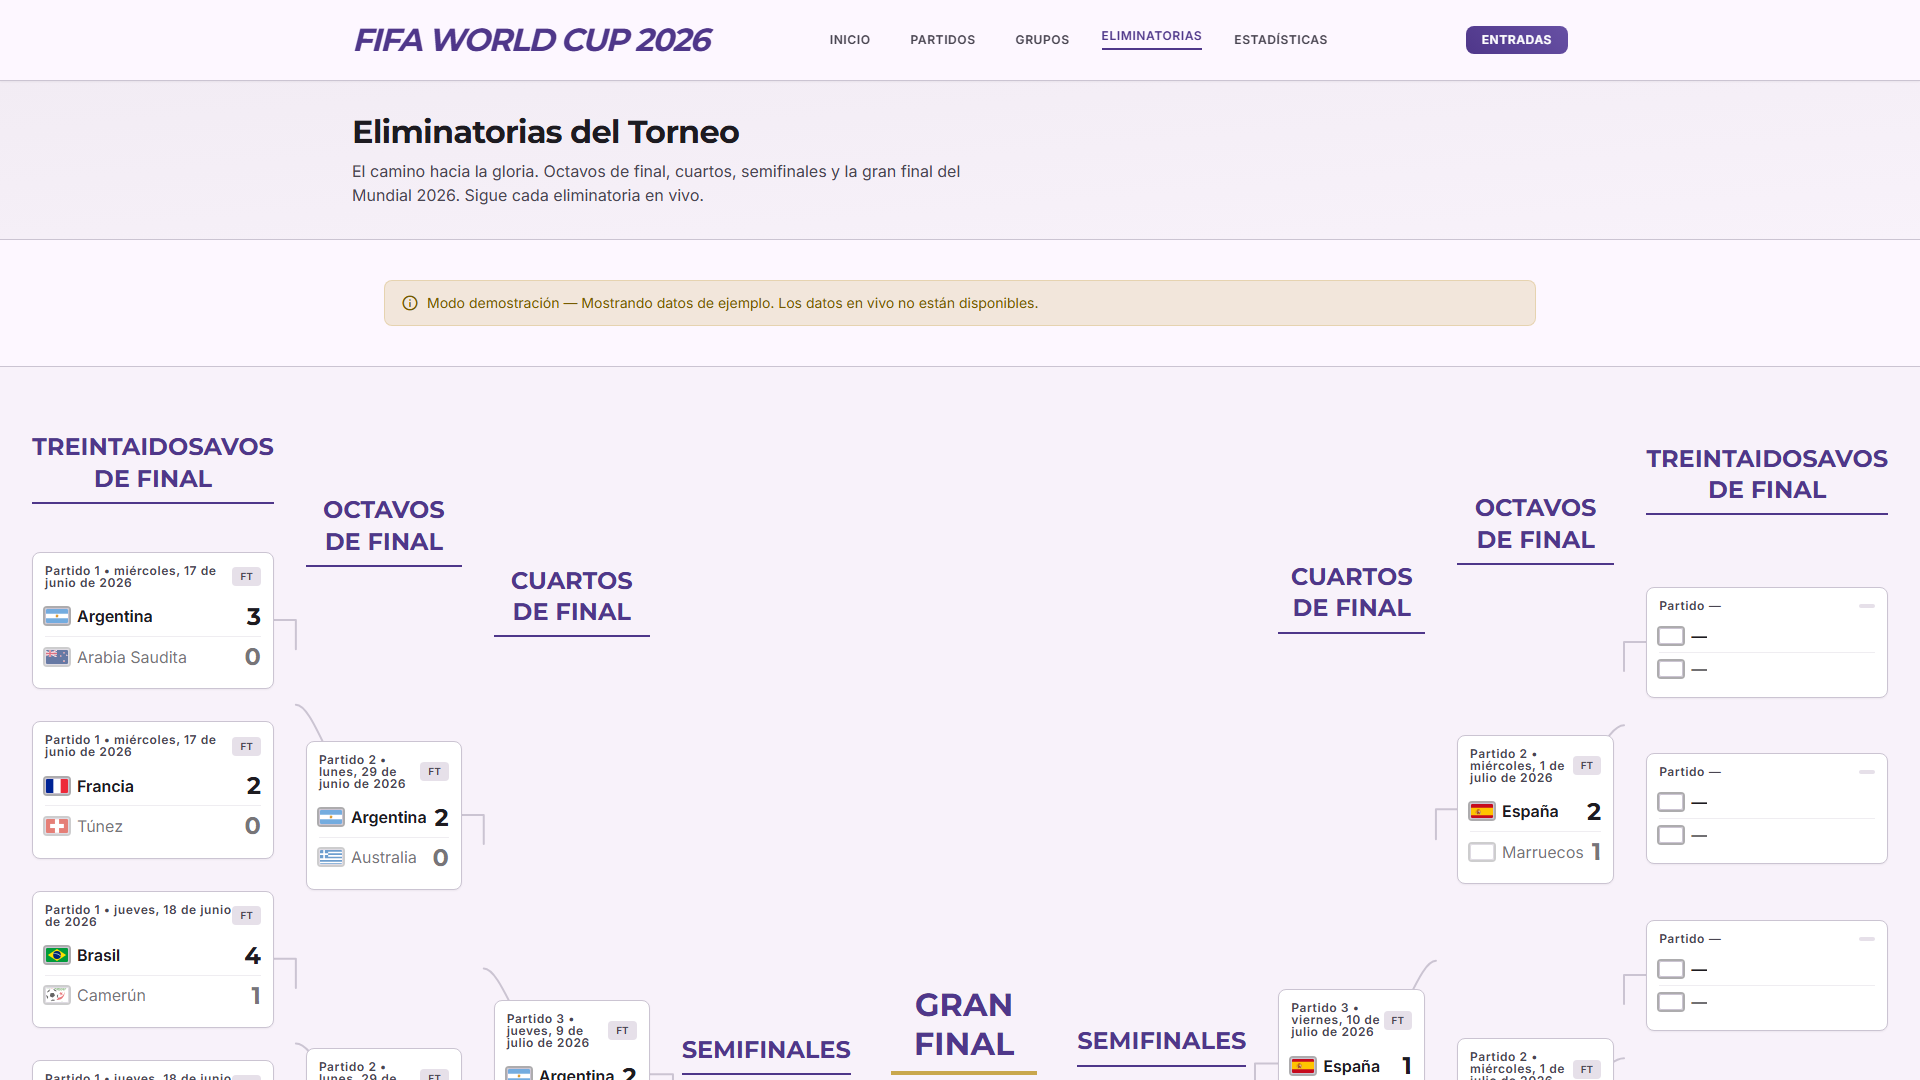
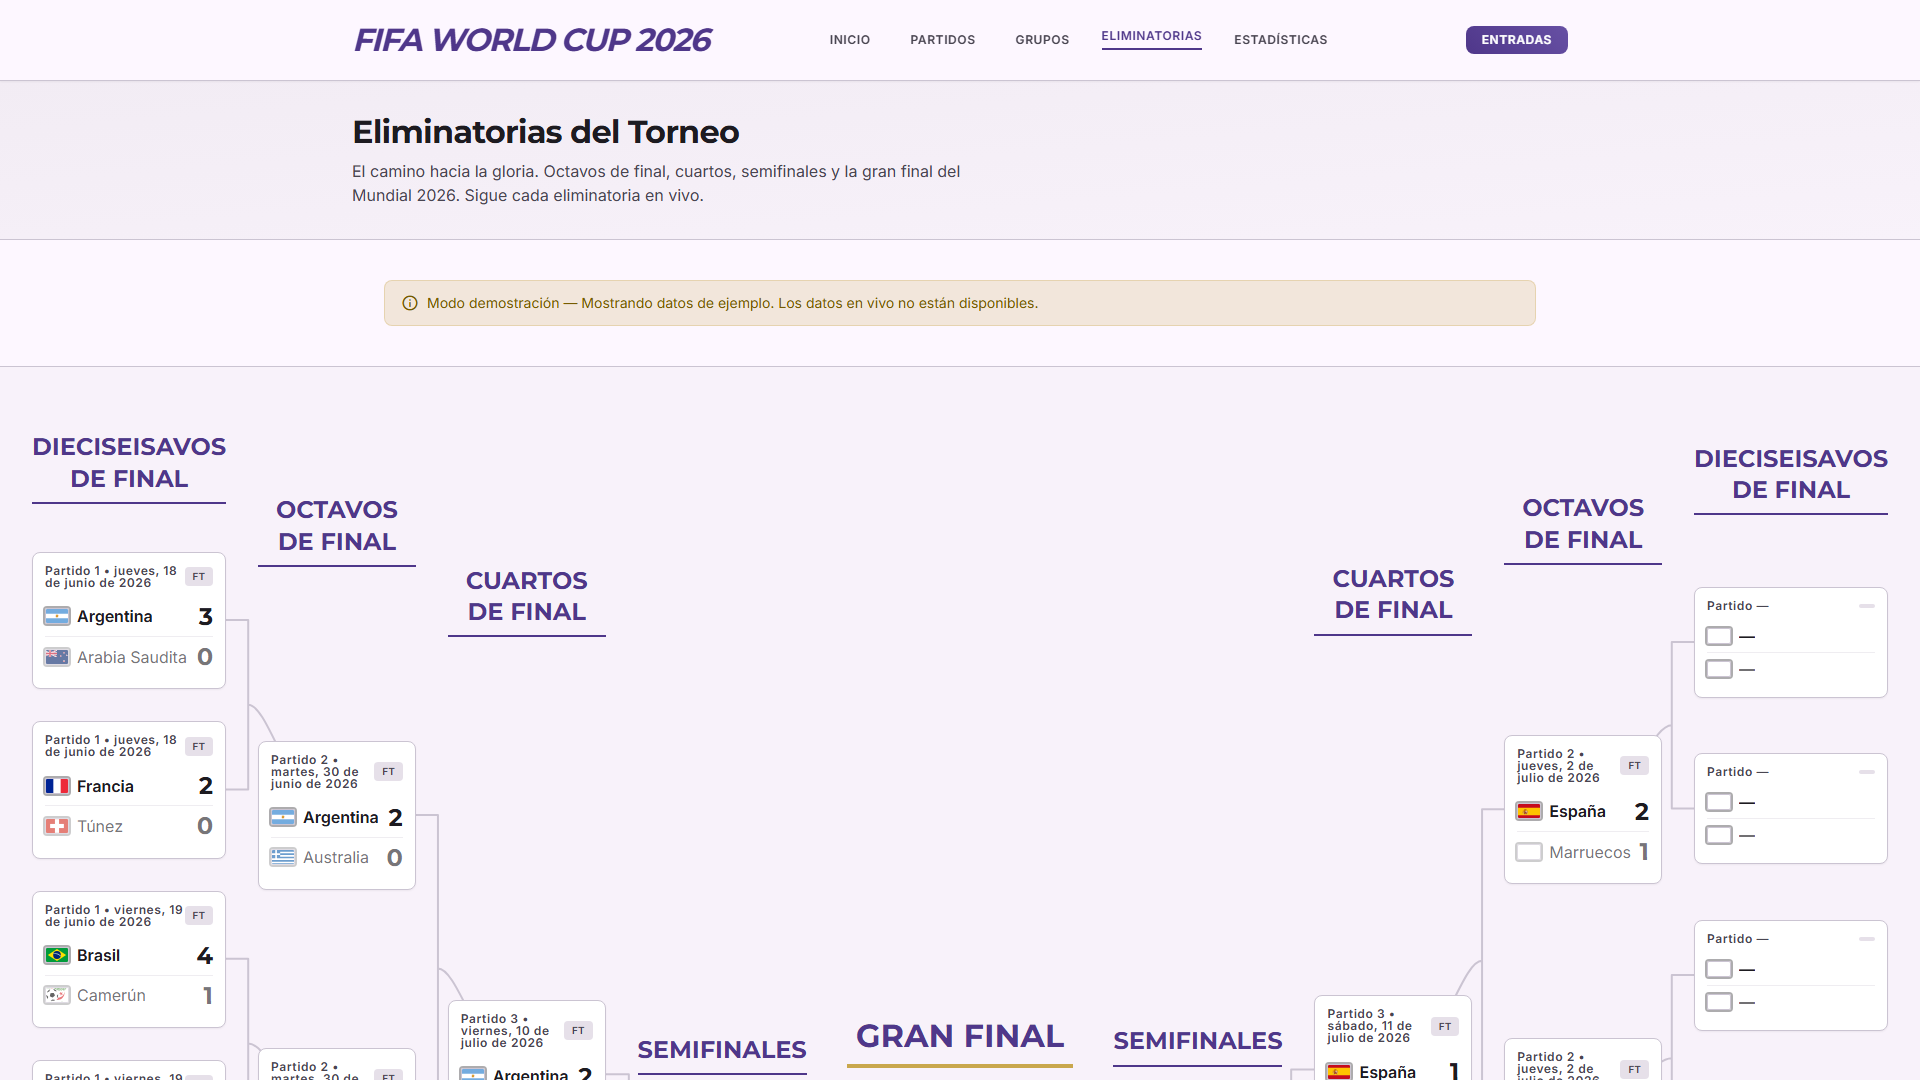
FIx: Tree Elimination

diff --git a/knockout/knockout.js b/knockout/knockout.js
@@ -12,6 +12,65 @@ const connectorLogger = createLogger('Connectors');
 const DEBUG_CONNECTORS = false;
 
 /**
+ * Referencia al ResizeObserver que vigila #bracket-inner.
+ * Se crea una única vez y se reutiliza para evitar observers duplicados.
+ */
+let bracketResizeObserver = null;
+
+/**
+ * Handle del requestAnimationFrame pendiente para el redibujado de conectores.
+ * Se usa para "debounce" múltiples disparos seguidos (resize, observer, fonts...)
+ * en un único redibujado por frame, evitando trabajo redundante.
+ */
+let connectorsRenderHandle = null;
+
+/**
+ * Programar un redibujado de conectores en el siguiente frame.
+ * Cualquier trigger (resize de ventana, cambio de zoom, cambio de tamaño
+ * del contenedor, fuentes cargadas, etc.) debe pasar por aquí en lugar de
+ * llamar a renderConnectors() directamente, para evitar renders duplicados.
+ */
+function scheduleRenderConnectors() {
+  if (connectorsRenderHandle !== null) {
+    cancelAnimationFrame(connectorsRenderHandle);
+  }
+  connectorsRenderHandle = requestAnimationFrame(() => {
+    connectorsRenderHandle = null;
+    renderConnectors();
+  });
+}
+
+/**
+ * Configurar el ResizeObserver que mantiene los conectores alineados.
+ *
+ * Por qué es necesario: el evento 'resize' de window SOLO se dispara cuando
+ * cambia el viewport del navegador. No se dispara cuando:
+ *  - Se cambia `document.body.style.zoom` (zoom CSS, usado en tests y por
+ *    algunos navegadores/paneles de accesibilidad) — sin embargo SÍ cambia
+ *    el tamaño real (getBoundingClientRect) de #bracket-inner.
+ *  - Cambia el layout por otras causas: fuentes que terminan de cargar,
+ *    nombres de equipo largos que reflowan una tarjeta, o un breakpoint de
+ *    Tailwind (lg:/xl:/2xl:) que se activa por el propio zoom.
+ *
+ * ResizeObserver detecta directamente cambios en la caja del contenedor
+ * del bracket sin importar la causa, por lo que es la fuente de verdad
+ * correcta para saber cuándo redibujar los conectores.
+ */
+function setupBracketResizeObserver() {
+  const bracket = document.getElementById('bracket-inner');
+  if (!bracket || typeof ResizeObserver === 'undefined') return;
+
+  if (bracketResizeObserver) {
+    bracketResizeObserver.disconnect();
+  }
+
+  bracketResizeObserver = new ResizeObserver(() => {
+    scheduleRenderConnectors();
+  });
+  bracketResizeObserver.observe(bracket);
+}
+
+/**
  * Llenar una tarjeta de partido en el bracket
  * @param {HTMLElement} card - Elemento .match-card
  * @param {object} match - Objeto partido (formato football-data.org)
@@ -216,9 +275,11 @@ async function renderKnockout() {
       }
     }
 
-    // Renderizar conectores después de que el DOM se haya actualizado
-    // y las tarjetas tengan sus dimensiones finales
-    scheduleConnectorRender();
+    // Renderizar conectores tras el primer pintado y activar el observer
+    // que los mantendrá alineados ante cualquier cambio de tamaño futuro
+    // (resize, zoom, reflow por contenido/fuentes, cambios de breakpoint).
+    setupBracketResizeObserver();
+    setTimeout(() => scheduleRenderConnectors(), 200);
 
     logger.log('Bracket renderizado exitosamente');
 
@@ -243,33 +304,12 @@ async function renderKnockout() {
       errorEl.classList.add('hidden');
 
       if (demoBadge) demoBadge.classList.remove('hidden');
-      scheduleConnectorRender();
+      setupBracketResizeObserver();
+      setTimeout(() => scheduleRenderConnectors(), 200);
       logger.log('Recuperación con datos demo exitosa');
     } catch (recoveryError) {
       logger.error('Recuperación fallida', { error: recoveryError.message });
     }
-  }
-}
-
-/**
- * Programar renderizado de conectores con requestAnimationFrame
- * Usa rAF con fallback a setTimeout para compatibilidad
- */
-function scheduleConnectorRender() {
-  if (window.requestAnimationFrame) {
-    requestAnimationFrame(() => {
-      // Doble rAF para asegurar que el DOM está estable
-      requestAnimationFrame(() => {
-        renderConnectors();
-        if (DEBUG_CONNECTORS) connectorLogger.log('Conectores renderizados vía requestAnimationFrame');
-      });
-    });
-  } else {
-    // Fallback para navegadores antiguos
-    setTimeout(() => {
-      renderConnectors();
-      if (DEBUG_CONNECTORS) connectorLogger.log('Conectores renderizados vía setTimeout (fallback)');
-    }, 50);
   }
 }
 
@@ -296,7 +336,10 @@ function getCardEdge(matchId, side, bracketEl) {
     default: x = r.left + r.width / 2 - bracketRect.left; break;
   }
   const y = r.top + r.height / 2 - bracketRect.top;
-  return { x, y };
+  // Redondear a 2 decimales: evita ruido de subpíxel que puede aparecer
+  // entre distintos niveles de zoom/devicePixelRatio y mantiene los paths
+  // SVG estables y fáciles de depurar.
+  return { x: Math.round(x * 100) / 100, y: Math.round(y * 100) / 100 };
 }
 
 /**
@@ -336,11 +379,6 @@ function renderConnectors() {
   // Limpiar paths existentes
   svg.innerHTML = '';
 
-  // Oculto en móvil (solo desktop)
-  if (window.innerWidth < 1024) {
-    svg.style.display = 'none';
-    return;
-  }
   svg.style.display = 'block';
 
   const bracketRect = bracket.getBoundingClientRect();
@@ -600,43 +638,21 @@ document.addEventListener('DOMContentLoaded', () => {
     setupBranchHighlight();
   });
 
-  // === ResizeObserver para cambios de tamaño en el contenedor ===
-  const bracketInner = document.getElementById('bracket-inner');
-  if (bracketInner && window.ResizeObserver) {
-    const resizeObserver = new ResizeObserver((entries) => {
-      for (const entry of entries) {
-        // Solo re-renderizar si el tamaño cambió significativamente
-        const { width, height } = entry.contentRect;
-        if (width > 0 && height > 0) {
-          scheduleConnectorRender();
-        }
-      }
-    });
-    resizeObserver.observe(bracketInner);
+  // Recalcular conectores al cambiar tamaño de ventana.
+  // Nota: esto es un fallback adicional; el ResizeObserver de
+  // #bracket-inner (ver setupBracketResizeObserver) es la fuente principal
+  // porque también cubre casos que 'resize' no dispara, como
+  // document.body.style.zoom.
+  window.addEventListener('resize', () => {
+    scheduleRenderConnectors();
+  });
 
-    // También observar las columnas para detectar cambios de altura
-    document.querySelectorAll('#bracket-inner > .flex.flex-col').forEach(col => {
-      resizeObserver.observe(col);
-    });
-
-    logger.log('ResizeObserver configurado para bracket-inner y columnas');
-  } else if (bracketInner) {
-    logger.warn('ResizeObserver no disponible, usando solo event resize');
-  }
-
-  // Observer para re-renderizar conectores cuando cambie el DOM
-  // (por ej: cuando se actualizan scores o estados)
-  const container = document.getElementById('knockout-container');
-  if (container) {
-    let observerTimeout;
-    const observer = new MutationObserver(() => {
-      clearTimeout(observerTimeout);
-      observerTimeout = setTimeout(() => {
-        scheduleConnectorRender();
-      }, 100); // Debounce de 100ms
-    });
-    observer.observe(container, { childList: true, subtree: true, attributes: false });
-    logger.log('MutationObserver configurado con debounce para knockout-container');
+  // Red de seguridad: si las fuentes web terminan de cargar después del
+  // primer render (FOUT/FOIT), el alto de las tarjetas puede variar
+  // ligeramente. Redibujamos una vez estén listas para que los conectores
+  // queden perfectamente alineados.
+  if (document.fonts && document.fonts.ready) {
+    document.fonts.ready.then(() => scheduleRenderConnectors()).catch(() => {});
   }
 
   // Botón Reintentar
@@ -653,22 +669,6 @@ document.addEventListener('DOMContentLoaded', () => {
       });
     });
   }
-
-  // Re-render on resize con throttling
-  let resizeTimer;
-  let lastResizeTime = 0;
-  const RESIZE_THROTTLE = 150; // ms
-
-  window.addEventListener('resize', () => {
-    const now = Date.now();
-    if (now - lastResizeTime < RESIZE_THROTTLE) return;
-    lastResizeTime = now;
-
-    clearTimeout(resizeTimer);
-    resizeTimer = setTimeout(() => {
-      scheduleConnectorRender();
-    }, RESIZE_THROTTLE);
-  });
 
   logger.log('Inicialización completa');
 });

diff --git a/knockout/bracket-connector-tests.spec.js b/knockout/bracket-connector-tests.spec.js
@@ -226,33 +226,6 @@ test('Los paths empiezan en el borde de una tarjeta origen', async ({ page }) =>
 });
 
 // ============================================
-// TEST 6: Verificar que los paths se recalculan tras resize
-// ============================================
-test('Los paths se recalculan correctamente tras resize de ventana', async ({ page }) => {
-  await page.setViewportSize({ width: 1920, height: 1080 });
-  await page.goto(KNOCKOUT_URL);
-  await waitForConnectors(page);
-
-  const pathsBefore = await page.evaluate(() => {
-    return Array.from(document.querySelectorAll('#bracket-connectors path.bracket-connector'))
-      .map(p => p.getAttribute('d'));
-  });
-
-  await page.setViewportSize({ width: 1440, height: 900 });
-  await page.waitForTimeout(500);
-  await page.waitForSelector('#bracket-connectors path.bracket-connector', { timeout: 5000 });
-  await page.waitForTimeout(1500);
-
-  const pathsAfter = await page.evaluate(() => {
-    return Array.from(document.querySelectorAll('#bracket-connectors path.bracket-connector'))
-      .map(p => p.getAttribute('d'));
-  });
-
-  const changed = pathsBefore.some((d, i) => d !== pathsAfter[i]);
-  expect(changed).toBe(true);
-});
-
-// ============================================
 // TEST 7: Verificar que los paths tienen colores correctos según la etapa
 // ============================================
 test('Los paths tienen colores correctos según la etapa', async ({ page }) => {

diff --git a/knockout/knockout.html b/knockout/knockout.html
@@ -221,11 +221,11 @@
         <div class="overflow-x-auto py-stack-lg px-margin-mobile md:px-margin-desktop">
           <div class="min-w-[2200px] flex justify-between relative py-stack-lg gap-2 lg:min-w-0 lg:justify-center lg:gap-4 xl:gap-6 2xl:gap-8" id="bracket-inner">
             <!-- SVG Connectors Overlay -->
-            <svg id="bracket-connectors" class="absolute inset-0 w-full h-full pointer-events-none hidden lg:block"></svg>
+            <svg id="bracket-connectors" class="absolute inset-0 w-full h-full pointer-events-none"></svg>
 
-            <!-- Left: Treintaidosavos de Final -->
+            <!-- Left: Dieciseisavos de Final -->
             <div class="flex flex-col justify-around w-52 lg:w-56 xl:w-60 2xl:w-64 gap-stack-lg z-10">
-              <div class="font-headline-md text-headline-md text-primary text-center mb-stack-md uppercase border-b-2 border-primary pb-2">Treintaidosavos de Final</div>
+              <div class="font-headline-md text-headline-md text-primary text-center mb-stack-md uppercase border-b-2 border-primary pb-2">Dieciseisavos de Final</div>
               <!-- Match 15 -->
               <div class="match-card bg-surface-container-lowest border border-outline-variant rounded-lg p-3 shadow-sm hover:-translate-y-1 hover:border-b-2 hover:border-b-primary transition-all cursor-pointer relative group" data-match-id="15">
                 <div class="flex justify-between items-center mb-2">
@@ -747,9 +747,9 @@
               </div>
             </div>
 
-            <!-- Right: Treintaidosavos de Final -->
+            <!-- Right: Dieciseisavos de Final -->
             <div class="flex flex-col justify-around w-52 lg:w-56 xl:w-60 2xl:w-64 gap-stack-lg z-10">
-              <div class="font-headline-md text-headline-md text-primary text-center mb-stack-md uppercase border-b-2 border-primary pb-2">Treintaidosavos de Final</div>
+              <div class="font-headline-md text-headline-md text-primary text-center mb-stack-md uppercase border-b-2 border-primary pb-2">Dieciseisavos de Final</div>
               <!-- Match 23 -->
               <div class="match-card bg-surface-container-lowest border border-outline-variant rounded-lg p-3 shadow-sm hover:-translate-y-1 hover:border-b-2 hover:border-b-primary transition-all cursor-pointer relative group" data-match-id="23">
                 <div class="flex justify-between items-center mb-2">

diff --git a/components/footer/footerInjection.js b/components/footer/footerInjection.js
@@ -1,6 +1,5 @@
-fetch("/components/footer/componentFooter.html")
+fetch("components/footer/componentFooter.html")
 .then(response => response.text())
 .then(data => {
     document.getElementById("footerInjection").innerHTML = data;
 });
-

diff --git a/readme.md b/readme.md
@@ -14,6 +14,7 @@ Este proyecto ha sido desarrollado como parte del módulo **Frontend: JavaScript
 * **Despliegue en Vercel:** [Ver en Vercel](https://wc-2026-prueba.vercel.app/index.html)
 * **Tablero de Gestión (GitHub Project):** [Ver Sprint Backlog](https://github.com/users/wfhgdev/projects/1/views/2)
 * **Diseño en Figma:** [Ver Prototipo Figma](https://www.figma.com/design/24TjyRzS6OAZhD1D2kwCJm/PROY-WORLD-CUP26?node-id=70-96)
+* **Wiki:** [Ver Wiki y documentación](https://wc-2026-prueba.vercel.app/learn/index.html)
 
 ---
 
@@ -60,8 +61,8 @@ Para garantizar la calidad del código y una organización equitativa del equipo
 
 ### Git Flow & Ramas (Conventional Branches)
 * `main` / `master`: Código de producción completamente estable.
-* `develop`: Rama de integración de características.
-* Ramas de características basadas en el patrón: `feature/nombre-de-la-tarea`, `fix/issue-corregido`, o `docs/cambios-documentacion`.
+* `dev`: Rama de integración de características.
+* Ramas de características basadas en el patrón: `feature/nombre-de-la-tarea`, `fix/issue-corregido`.
 
 ### Historial de Commits (Conventional Commits)
 Garantizamos un historial limpio y legible siguiendo la convención:
@@ -76,7 +77,7 @@ Garantizamos un historial limpio y legible siguiendo la convención:
 ## 👥 Equipo de Desarrollo
 
 * **Carlos Javier Pérez Pérez** - *Scrum Master* - [@carlosjper](https://github.com/carlosjper)
-* **Konstantin Mlechka** - *Frontend Developer* - [@kvadrakola][https://github.com/kvadrakola]
+* **Konstantin Mlechka** - *Frontend Developer* - [@kvadrakola](https://github.com/kvadrakola)
 * **Cristina Rodríguez López** - *Frontend Developer* - [@cristinarodriguezl-dev](https://github.com/cristinarodriguezl-dev)
 * **Margarita Bellido Ro** - *Frontend Developer* - [@margaritabellidoroig](https://github.com/margaritabellidoroig)
 * **José Loero Niele** - *Frontend Developer* - [@Mltiformacionjose](https://github.com/Mltiformacionjose)